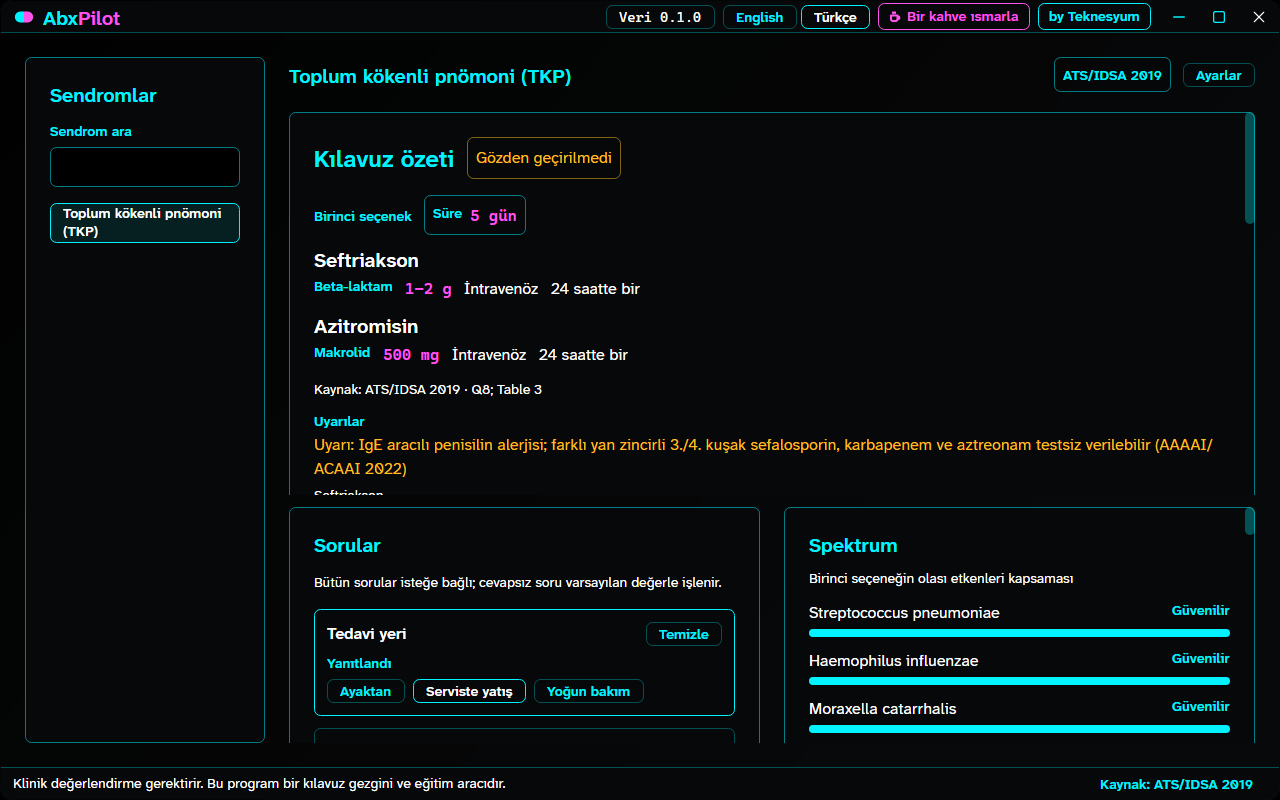
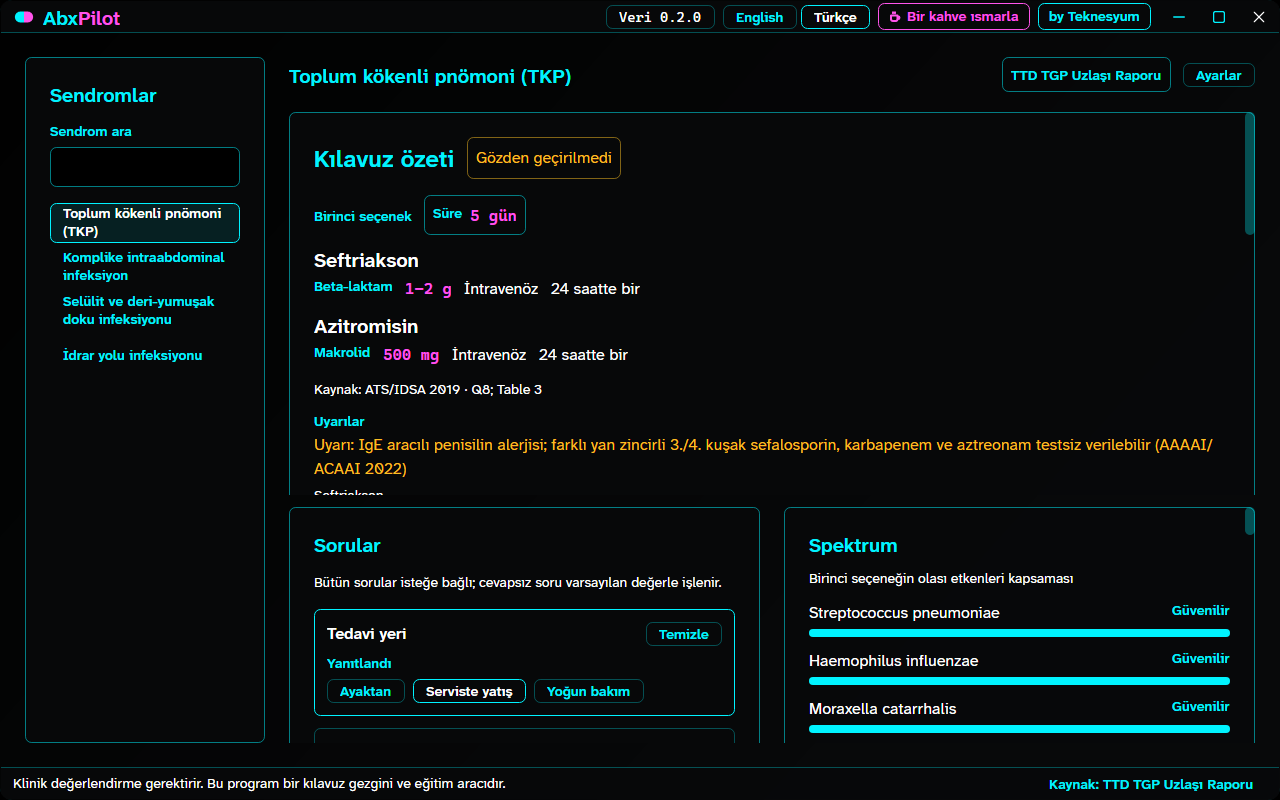
Adapt the screen to the new syndromes
The app picked the first guideline set in the knowledge base. After the
A6 sets were added that was eau-2026, which has no pneumonia rows, so
the screen fell to the consult state and the UI test failed.

- Guideline set is chosen per syndrome: only sets that cover it are
  offered; saved choice, else the region's national set, else the first
  international one. Sets may declare a region.
- Summary card states for referral and no-antibiotic outcomes.
- Empty-state text no longer assumes the rail is on the left.
- Screenshots for the new syndromes and outcomes; guard the TTD
  Pseudomonas golden case against beta-lactam + doxycycline + ciprofloxacin.

diff --git a/src/AbxPilot.UI/ViewModels/MainViewModel.cs b/src/AbxPilot.UI/ViewModels/MainViewModel.cs
@@ -19,6 +19,8 @@ public enum ScreenState
     Empty,
     Ready,
     Consult,
+    Referral,
+    NoAntibiotic,
     Error
 }
 
@@ -41,7 +43,7 @@ public sealed record RationalePage(MainViewModel Owner);
 
 public sealed partial class MainViewModel : ObservableObject
 {
-    public const string Region = "tr";
+    public const string DefaultRegion = "tr";
 
     private readonly Func<KnowledgeBase> _load;
     private readonly ISettingsStore _store;
@@ -52,6 +54,9 @@ public sealed partial class MainViewModel : ObservableObject
     private Recommendation? _current;
     private int _generation;
     private string? _errorKey;
+    private string _region = DefaultRegion;
+    private string _set = "";
+    private Dictionary<string, string[]> _setsBySyndrome = new(StringComparer.Ordinal);
 
     public MainViewModel() : this(KbResources.Knowledge, FileSettingsStore.ForUser())
     {
@@ -120,7 +125,8 @@ public sealed partial class MainViewModel : ObservableObject
 
     [ObservableProperty]
     [NotifyPropertyChangedFor(nameof(IsLoading), nameof(IsEmpty), nameof(IsReady), nameof(IsConsult), nameof(IsError),
-        nameof(HasCard), nameof(HasResult), nameof(ShowQuestionHint))]
+        nameof(IsReferral), nameof(IsNoAntibiotic), nameof(IsCaution), nameof(HasCard), nameof(HasResult),
+        nameof(ShowQuestionHint))]
     private ScreenState state = ScreenState.Loading;
 
     [ObservableProperty]
@@ -156,6 +162,18 @@ public sealed partial class MainViewModel : ObservableObject
 
     [ObservableProperty]
     private string errorText = "";
+
+    [ObservableProperty]
+    private string outcomeText = "";
+
+    [ObservableProperty]
+    private string referralNote = "";
+
+    [ObservableProperty]
+    private bool hasFirstChoice;
+
+    [ObservableProperty]
+    private string guidelineSettingLabel = "";
 
     [ObservableProperty]
     private string sourceLinkText = "";
@@ -204,7 +222,17 @@ public sealed partial class MainViewModel : ObservableObject
 
     public bool IsError => State == ScreenState.Error;
 
-    public bool HasCard => IsReady || IsConsult;
+    public bool IsReferral => State == ScreenState.Referral;
+
+    public bool IsNoAntibiotic => State == ScreenState.NoAntibiotic;
+
+    public bool IsCaution => IsConsult || IsReferral;
+
+    public bool HasCard => IsReady || IsConsult || IsReferral || IsNoAntibiotic;
+
+    public bool HasSetChoices => GuidelineSets.Count > 0;
+
+    public bool NoSetChoices => GuidelineSets.Count == 0;
 
     public bool HasResult => HasCard;
 
@@ -233,7 +261,9 @@ public sealed partial class MainViewModel : ObservableObject
     public string DataVersion =>
         Localizer.Format("titlebar.dataVersion", ("version", _knowledge?.Version ?? "…"));
 
-    public string GuidelineSet => _settings.GuidelineSet ?? "";
+    public string GuidelineSet => _set;
+
+    public string RegionId => _region;
 
     private async Task LoadAsync()
     {
@@ -256,14 +286,17 @@ public sealed partial class MainViewModel : ObservableObject
         foreach (var syndrome in knowledge.Syndromes)
             Syndromes.Add(new SyndromeItem(syndrome.Id));
 
+        _setsBySyndrome = knowledge.Syndromes.ToDictionary(
+            syndrome => syndrome.Id,
+            syndrome => knowledge.GuidelineSets
+                .Where(set => knowledge.GuidelineRows.Any(row => row.Set == set.Id && row.Syndrome == syndrome.Id))
+                .Select(set => set.Id)
+                .ToArray(),
+            StringComparer.Ordinal);
+        _region = knowledge.Regions.Any(region => region.Id == _settings.Region) ? _settings.Region! : DefaultRegion;
+        _set = "";
         GuidelineSets.Clear();
-        foreach (var set in knowledge.GuidelineSets)
-            GuidelineSets.Add(new ChoiceOption("set", set.Id));
-
-        var chosen = knowledge.GuidelineSets.Any(set => set.Id == _settings.GuidelineSet)
-            ? _settings.GuidelineSet!
-            : knowledge.GuidelineSets.FirstOrDefault()?.Id ?? "";
-        _settings = _settings with { GuidelineSet = chosen };
+        OnSetsChanged();
 
         Relabel();
         State = ScreenState.Empty;
@@ -301,6 +334,7 @@ public sealed partial class MainViewModel : ObservableObject
         foreach (var syndrome in Syndromes)
             syndrome.IsSelected = ReferenceEquals(syndrome, item);
         SelectedSyndrome = item;
+        ChooseSet(item.Id);
         _answers.Clear();
         _current = null;
         BuildQuestions(item.Id);
@@ -343,10 +377,15 @@ public sealed partial class MainViewModel : ObservableObject
     [RelayCommand]
     private void SelectGuidelineSet(ChoiceOption option)
     {
-        if (option.Code == _settings.GuidelineSet) return;
-        Persist(_settings with { GuidelineSet = option.Code });
+        if (SelectedSyndrome is not { } syndrome || option.Code == _set) return;
+        _set = option.Code;
+        var chosen = new Dictionary<string, string>(StringComparer.Ordinal);
+        foreach (var pair in _settings.GuidelineSets ?? new Dictionary<string, string>())
+            chosen[pair.Key] = pair.Value;
+        chosen[syndrome.Id] = option.Code;
+        Persist(_settings with { GuidelineSets = chosen });
         Relabel();
-        if (SelectedSyndrome is not null) Evaluate(null);
+        Evaluate(null);
     }
 
     [RelayCommand]
@@ -433,6 +472,35 @@ public sealed partial class MainViewModel : ObservableObject
         OnPropertyChanged(nameof(GuidelineSet));
     }
 
+    private void ChooseSet(string syndromeId)
+    {
+        var available = _setsBySyndrome.GetValueOrDefault(syndromeId) ?? [];
+        var saved = _settings.GuidelineSets?.GetValueOrDefault(syndromeId);
+        _set = saved is not null && available.Contains(saved) ? saved : DefaultSet(available);
+        GuidelineSets.Clear();
+        foreach (var id in available)
+            GuidelineSets.Add(new ChoiceOption("set", id));
+        OnSetsChanged();
+    }
+
+    private string DefaultSet(IReadOnlyList<string> available)
+    {
+        var sets = available
+            .Select(id => _knowledge!.GuidelineSets.First(set => set.Id == id))
+            .ToArray();
+        var chosen = sets.FirstOrDefault(set => string.Equals(set.Region, _region, StringComparison.OrdinalIgnoreCase))
+                     ?? sets.FirstOrDefault(set => set.Region is null)
+                     ?? sets.FirstOrDefault();
+        return chosen?.Id ?? "";
+    }
+
+    private void OnSetsChanged()
+    {
+        OnPropertyChanged(nameof(GuidelineSet));
+        OnPropertyChanged(nameof(HasSetChoices));
+        OnPropertyChanged(nameof(NoSetChoices));
+    }
+
     private void Filter()
     {
         var query = SearchText.Trim();
@@ -451,8 +519,8 @@ public sealed partial class MainViewModel : ObservableObject
         var context = new GuidelineContext(
             SelectedSyndrome.Id,
             new Dictionary<string, IReadOnlyList<string>>(_answers, StringComparer.Ordinal),
-            Region,
-            _settings.GuidelineSet ?? "");
+            _region,
+            _set);
         Idle = EvaluateAsync(_engine, context, trigger, ++_generation);
         return Idle;
     }
@@ -524,7 +592,7 @@ public sealed partial class MainViewModel : ObservableObject
         foreach (var option in GuidelineSets)
         {
             option.Label = Localizer.Get($"guideline.{option.Code}.name");
-            option.IsSelected = option.Code == _settings.GuidelineSet;
+            option.IsSelected = option.Code == _set;
         }
 
         foreach (var card in Questions)
@@ -534,8 +602,13 @@ public sealed partial class MainViewModel : ObservableObject
                 option.Label = Localizer.Get($"question.{card.Id}.option.{option.Code}");
         }
 
-        GuidelineName = Localizer.Get($"guideline.{_settings.GuidelineSet}.name");
+        GuidelineName = _set.Length > 0
+            ? Localizer.Get($"guideline.{_set}.name")
+            : Localizer.Format("appbar.region", ("name", Localizer.Get($"region.{_region}.name")));
         SyndromeTitle = SelectedSyndrome?.Name ?? Localizer.Get("appbar.noSyndrome");
+        GuidelineSettingLabel = SelectedSyndrome is { } selected
+            ? Localizer.Format("settings.guidelineFor", ("syndrome", selected.Name))
+            : Localizer.Get("settings.guideline");
         AlternativesHeader = Localizer.Get("card.tab.alternatives");
         RationaleHeader = Localizer.Get("card.tab.rationale");
         SettingsPath = _store is FileSettingsStore file
@@ -551,7 +624,7 @@ public sealed partial class MainViewModel : ObservableObject
 
     private void UpdateSource()
     {
-        var set = _knowledge?.GuidelineSets.FirstOrDefault(item => item.Id == _settings.GuidelineSet);
+        var set = _knowledge?.GuidelineSets.FirstOrDefault(item => item.Id == _set);
         var source = set is null ? null : _knowledge!.Sources.FirstOrDefault(item => item.Id == set.Source);
         SourceUrl = source?.Url;
         SourceLinkText = set is null
@@ -585,7 +658,20 @@ public sealed partial class MainViewModel : ObservableObject
             _ => ""
         };
 
-        State = result.ConsultSpecialist ? ScreenState.Consult : ScreenState.Ready;
+        HasFirstChoice = result.FirstChoice is not null &&
+                         result.Status is RecommendationStatus.Selected or RecommendationStatus.Referral;
+        OutcomeText = result.Status is RecommendationStatus.Referral or RecommendationStatus.NoAntibiotic &&
+                      result.Rationale.Count > 0
+            ? Localizer.Get(result.Rationale[0].MessageKey)
+            : "";
+        ReferralNote = Localizer.Get(HasFirstChoice ? "card.referral.withRegimen" : "card.referral.noRegimen");
+        State = result.Status switch
+        {
+            RecommendationStatus.Selected => ScreenState.Ready,
+            RecommendationStatus.Referral => ScreenState.Referral,
+            RecommendationStatus.NoAntibiotic => ScreenState.NoAntibiotic,
+            _ => ScreenState.Consult
+        };
         OnPropertyChanged(nameof(HasWarnings));
         OnPropertyChanged(nameof(HasExcluded));
         OnPropertyChanged(nameof(NoAlternatives));
@@ -662,7 +748,7 @@ public sealed partial class MainViewModel : ObservableObject
         }
 
         Licenses.Clear();
-        var region = _knowledge?.Regions.FirstOrDefault(item => item.Id == Region);
+        var region = _knowledge?.Regions.FirstOrDefault(item => item.Id == _region);
         foreach (var component in components)
         {
             var status = region?.Licensing.FirstOrDefault(item => item.Drug == component.DrugId)?.Status ?? "unknown";

diff --git a/tests/AbxPilot.UiTests/EkranTests.cs b/tests/AbxPilot.UiTests/EkranTests.cs
@@ -116,6 +116,78 @@ public class EkranTests
     }
 
     [AvaloniaFact]
+    public void CapturesTheNewSyndromes()
+    {
+        var olcumler = Olcumler();
+
+        var (pencere, vm) = Ac(1280, 800);
+        Bitir(vm.SelectSyndromeAsync("cap"));
+        Assert.Equal("ttd-2021", vm.GuidelineSet);
+
+        Bitir(vm.SelectSyndromeAsync("ssti"));
+        Assert.Equal("idsa-2014", vm.GuidelineSet);
+        Assert.Equal(["idsa-2014", "nice-ng141-2019"], vm.GuidelineSets.Select(item => item.Code));
+        Assert.True(vm.IsReady, vm.State.ToString());
+        Kaydet(pencere, "a5-ssti-varsayilan");
+        Olc(pencere, "ssti", olcumler);
+
+        Bitir(vm.AnswerAsync("ssti_type", "purulent"));
+        Assert.True(vm.IsNoAntibiotic, vm.State.ToString());
+        Kaydet(pencere, "a5-ssti-antibiyotik-yok");
+        Olc(pencere, "antibiyotik-yok", olcumler);
+
+        Bitir(vm.ClearAsync("ssti_type"));
+        Bitir(vm.AnswerAsync("necrotizing_signs", "yes"));
+        Bitir(vm.AnswerAsync("systemic_signs", "yes"));
+        Assert.True(vm.IsReferral, vm.State.ToString());
+        Assert.True(vm.HasFirstChoice);
+        Kaydet(pencere, "a5-ssti-sevk");
+        Olc(pencere, "sevk", olcumler);
+
+        vm.SelectGuidelineSetCommand.Execute(vm.GuidelineSets.First(item => item.Code == "nice-ng141-2019"));
+        Bitir(vm.Idle);
+        Bitir(vm.SelectSyndromeAsync("uti"));
+        Assert.Equal("eau-2026", vm.GuidelineSet);
+        Assert.True(vm.IsReady, vm.State.ToString());
+        Kaydet(pencere, "a6-uti-varsayilan");
+        Olc(pencere, "uti", olcumler);
+
+        Bitir(vm.SelectSyndromeAsync("iai"));
+        Assert.Equal("ekmud-2016", vm.GuidelineSet);
+        Assert.True(vm.IsReady, vm.State.ToString());
+        Kaydet(pencere, "a6-iai-varsayilan");
+        Olc(pencere, "iai", olcumler);
+
+        Bitir(vm.AnswerAsync("sepsis", "yes"));
+        Assert.True(vm.IsReferral, vm.State.ToString());
+        Assert.False(vm.HasFirstChoice);
+        Kaydet(pencere, "a6-iai-sevk-rejimsiz");
+        Olc(pencere, "sevk-rejimsiz", olcumler);
+
+        vm.ToggleSettingsCommand.Execute(null);
+        Bekle();
+        Kaydet(pencere, "a6-ayarlar-set");
+        Olc(pencere, "ayarlar-set", olcumler);
+        vm.CloseSettingsCommand.Execute(null);
+
+        Bitir(vm.SelectSyndromeAsync("ssti"));
+        Assert.Equal("nice-ng141-2019", vm.GuidelineSet);
+        pencere.Close();
+
+        var tvm = new MainViewModel(KbResources.Knowledge, new MemorySettingsStore());
+        var telefon = new Window { Width = 390, Height = 844, Content = new MainView { DataContext = tvm } };
+        telefon.Show();
+        Bitir(tvm.Idle);
+        Assert.True(tvm.IsEmpty);
+        Kaydet(telefon, "a5-telefon-bos");
+        Olc(telefon, "telefon-bos", olcumler);
+        telefon.Close();
+
+        var hatalar = Hatalar(olcumler);
+        Assert.True(hatalar.Count == 0, string.Join("\n", hatalar));
+    }
+
+    [AvaloniaFact]
     public void EvaluationLeavesTheUiThreadFree()
     {
         var vm = new MainViewModel(KbResources.Knowledge, new MemorySettingsStore());

diff --git a/tools/AbxPilot.KbCompiler/CrossReferences.cs b/tools/AbxPilot.KbCompiler/CrossReferences.cs
@@ -31,7 +31,7 @@ internal sealed class CrossReferences(
         var questionIds = Unique(questions, item => item.Id, "question");
         Unique(syndromes, item => item.Id, "syndrome");
         Unique(sets, item => item.Id, "guideline set");
-        Unique(regions, item => item.Id, "region");
+        var regionIds = Unique(regions, item => item.Id, "region");
         Unique(spectrum, item => item.Syndrome + "/" + item.Drug, "spectrum row");
         Unique(constraints, item => item.Id, "constraint");
         UniqueRows();
@@ -49,6 +49,9 @@ internal sealed class CrossReferences(
         CheckRows(regimenIds, questionById, flagsBySyndrome);
         CheckSpectrum(drugIds);
         CheckRegions(drugIds, pathogenIds);
+        foreach (var (set, at) in sets)
+            if (set.Region is { } region && !regionIds.Contains(region))
+                Unknown(Codes.UnknownReference, at, "/region", $"unknown region '{region}'");
         CheckScoring();
         CheckConstraints(questionById, resistanceIds, flagsBySyndrome.Values.SelectMany(item => item).ToHashSet(StringComparer.Ordinal));
         CheckStrings();

diff --git a/src/AbxPilot.UI/Settings/SettingsStore.cs b/src/AbxPilot.UI/Settings/SettingsStore.cs
@@ -5,8 +5,9 @@ namespace AbxPilot.UI.Settings;
 public sealed record AppSettings
 {
     public bool ShowScore { get; init; }
-    public string? GuidelineSet { get; init; }
     public string? Language { get; init; }
+    public string? Region { get; init; }
+    public IReadOnlyDictionary<string, string>? GuidelineSets { get; init; }
 }
 
 public interface ISettingsStore

diff --git a/src/AbxPilot.Core/Knowledge/Clinical.cs b/src/AbxPilot.Core/Knowledge/Clinical.cs
@@ -98,6 +98,7 @@ public sealed record DrugSelector
 public sealed record GuidelineSet : KbRecord
 {
     public string? Extends { get; init; }
+    public string? Region { get; init; }
 }
 
 public sealed record GuidelineRow : KbRecord

diff --git a/src/AbxPilot.UI/AGENTS.md b/src/AbxPilot.UI/AGENTS.md
@@ -7,7 +7,8 @@ Avalonia shared UI: App, MainWindow, MainView, view models, theme, title bar.
 - `Themes/Controls.axaml`: control themes and state styles (qcard, alt, fill, flash).
 - `Views/MainView`: rail, summary card, questions, spectrum, settings; layout switch in `Arrange`, motion in `Choreograph` (driven by `RecommendationDiff`).
 - `Choreography/`: token access (`Tokens`), dose counter, drug-name nudge, converters.
-- `Settings/`: local settings file (guideline set, language, score toggle; no patient data).
+- `Settings/`: local settings file (guideline set per syndrome, language, region, score toggle; no patient data).
+- Guideline set: only sets with rows for the syndrome; saved choice, else the region's national set, else the first international one.
 - Engine runs off the UI thread (`Task.Run`); never call it synchronously from a view.
 - Custom title bar: `WindowDecorations="BorderOnly"`, BeginMoveDrag, double-click toggles maximize.
 - Visible text only via `{loc:Text key}`; keys in `kb/i18n/<lang>/ui.json`, sentence case.

diff --git a/kb/AGENTS.md b/kb/AGENTS.md
@@ -10,6 +10,7 @@ Knowledge base as data. Never put medical content in code. Sources map: `docs/kb
 - Row stage `base` selects; `modifier` acts: `add` appends, `replace` swaps the component with `role`
   (if the regimen lacks the role, the candidate is added), `note` shows text only.
 - `extends: <set>` inherits the parent rows; same id replaces in place, new ids append.
+- `region: <id>` on a set marks it national; the app offers it first in that region.
 - `i18n/<lang>/*.json`: flat keys merged per language. Missing tr key = error, missing en = warning.
 - mg/kg doses keep `amount_70kg`. Baseline patient: healthy 70 kg adult.
 - `constraints.yaml`: hard exclusions in precedence order (`when` + drug `exclude` selector + reason key).
